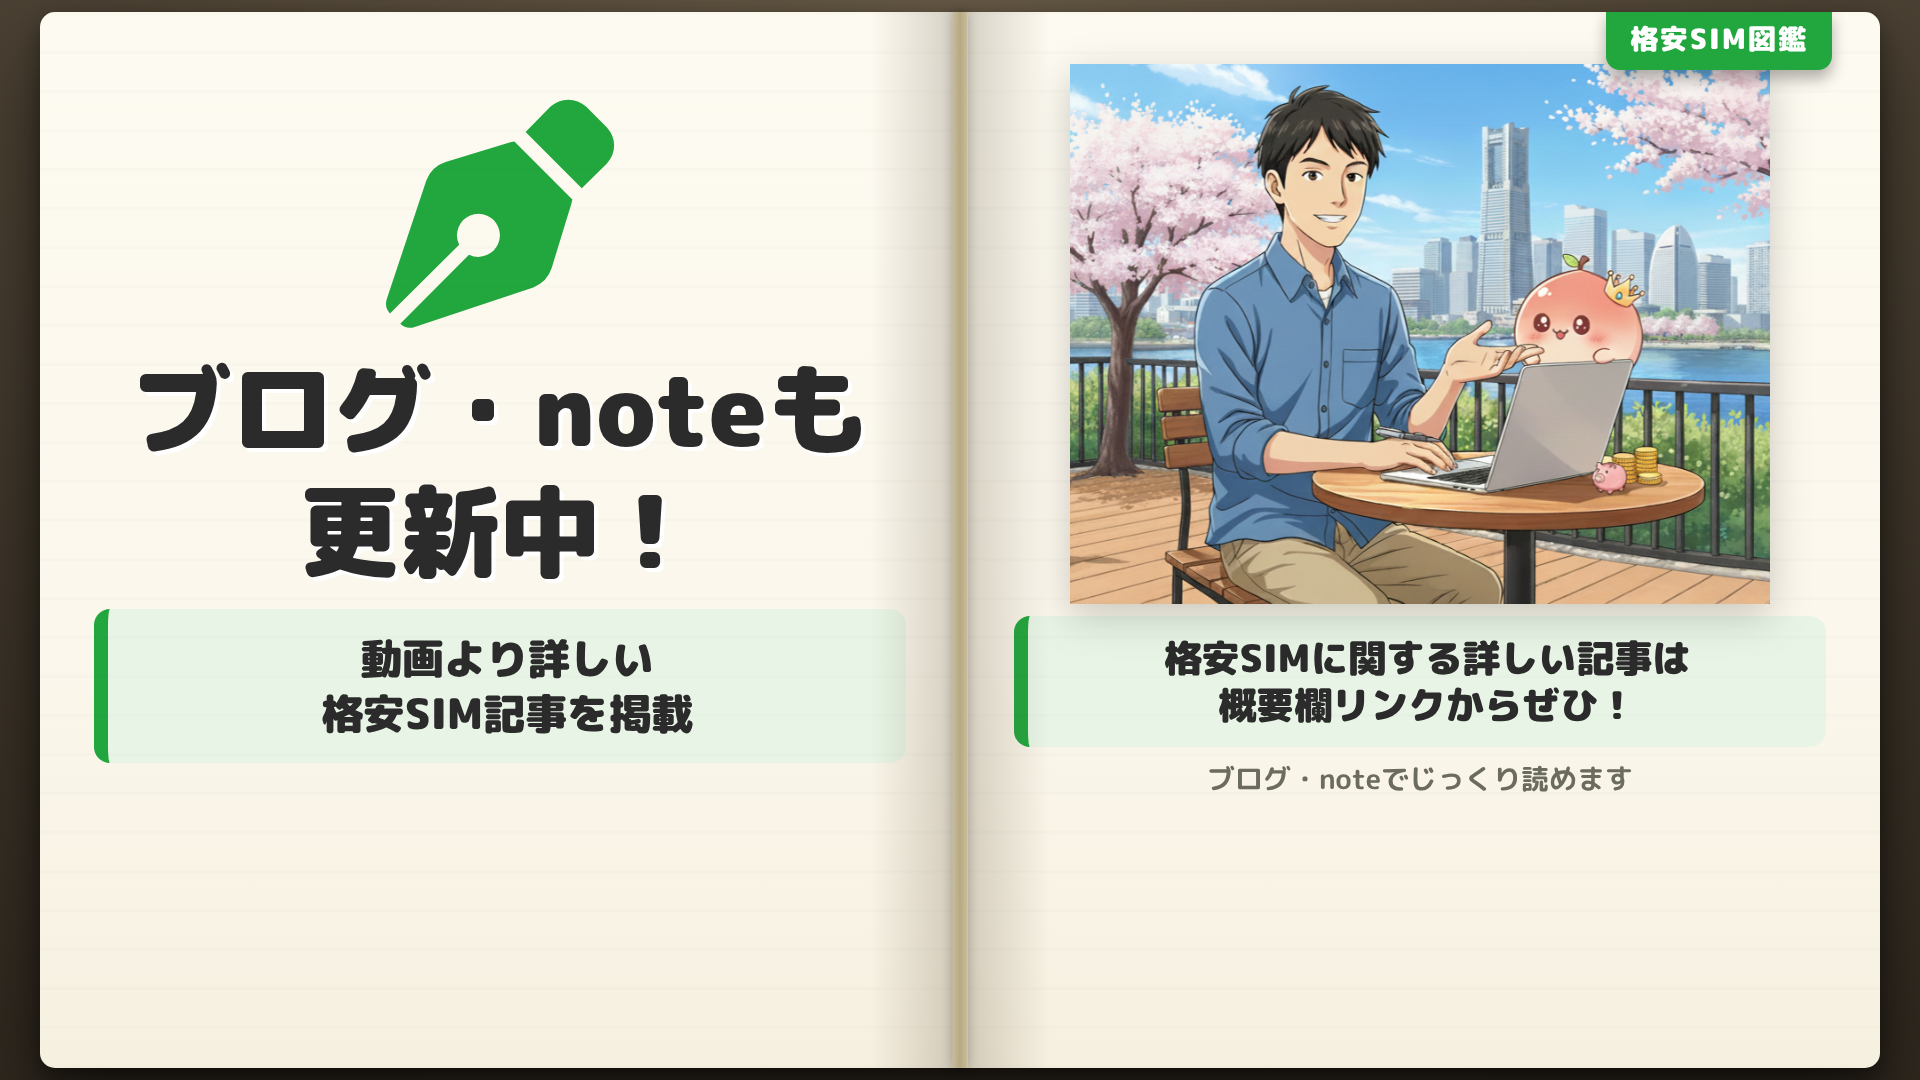
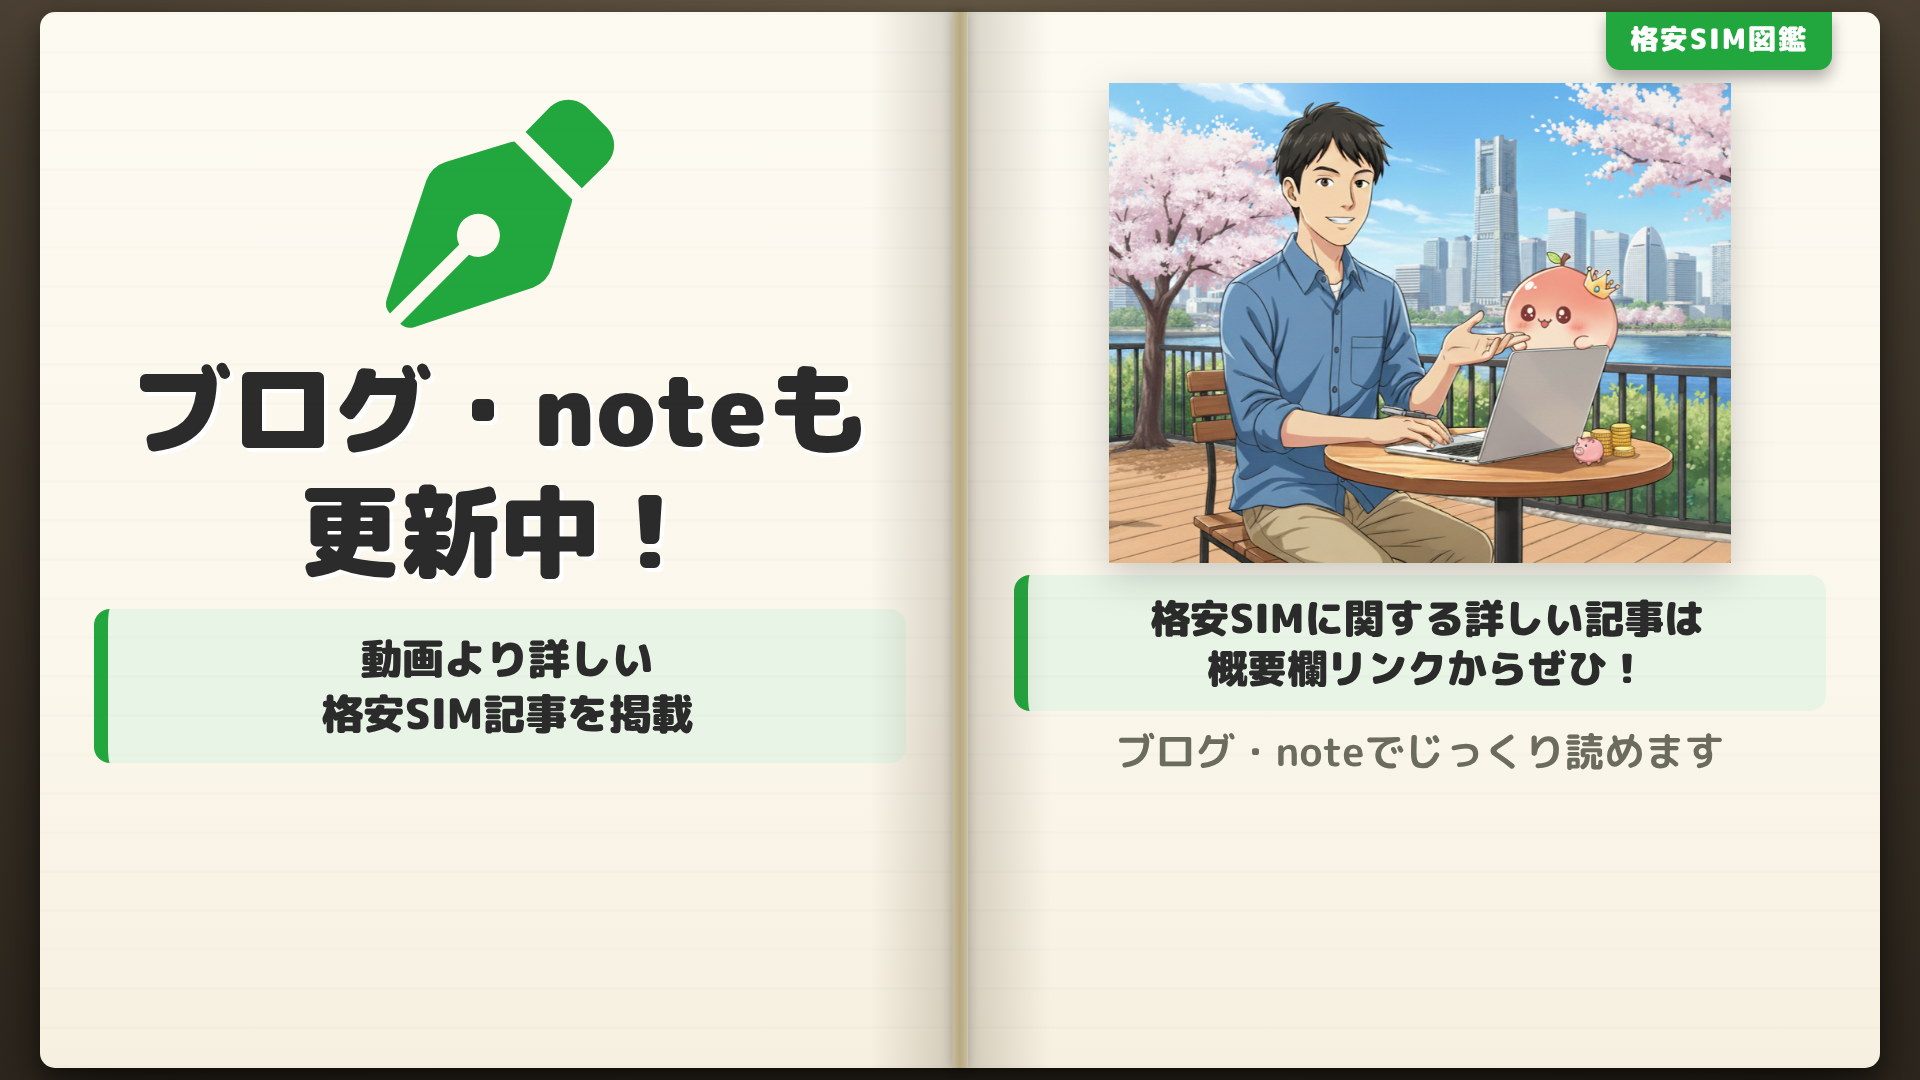
Slide 17 の blog-note を読めるサイズに拡大
28px はスマホ視聴で読めず、SKILL.md §10.2 の下限（30px）も下回っていた。
.note の既定（44px）に近い 40px へ。あわせて .blog-link も 38→40px。
拡大分の縦幅は blog-header の max-height を 540→480px にして確保した
（機械判定4項目すべてパス）。

Claude-Session: https://claude.ai/code/session_01Rbi2ZYC7BWooGwjg1ZSXvs

Changed region(s): [[0.5312, 0.0611, 0.9375, 0.7333]]

diff --git a/slides.html b/slides.html
@@ -391,7 +391,8 @@
       .blog-header {
         width: 100%;
         height: auto;
-        max-height: 540px;
+        /* .blog-note を読めるサイズまで上げるぶん、ヘッダー画像で縦を譲る。 */
+        max-height: 480px;
         object-fit: contain;
         border-radius: 18px;
         filter: drop-shadow(0 12px 20px #0003);
@@ -400,13 +401,15 @@
       .blog-link {
         width: 100%;
         padding: 18px 24px;
-        font-size: 38px;
+        font-size: 40px;
         line-height: 1.25;
         text-align: center;
       }
 
+      /* 28px ではスマホ視聴で読めなかった。§10.2 の下限（30px）も下回っていたので、
+         .note の既定（44px）に近い 40px まで戻す。 */
       .blog-note {
-        font-size: 28px;
+        font-size: 40px;
         text-align: center;
       }
 
